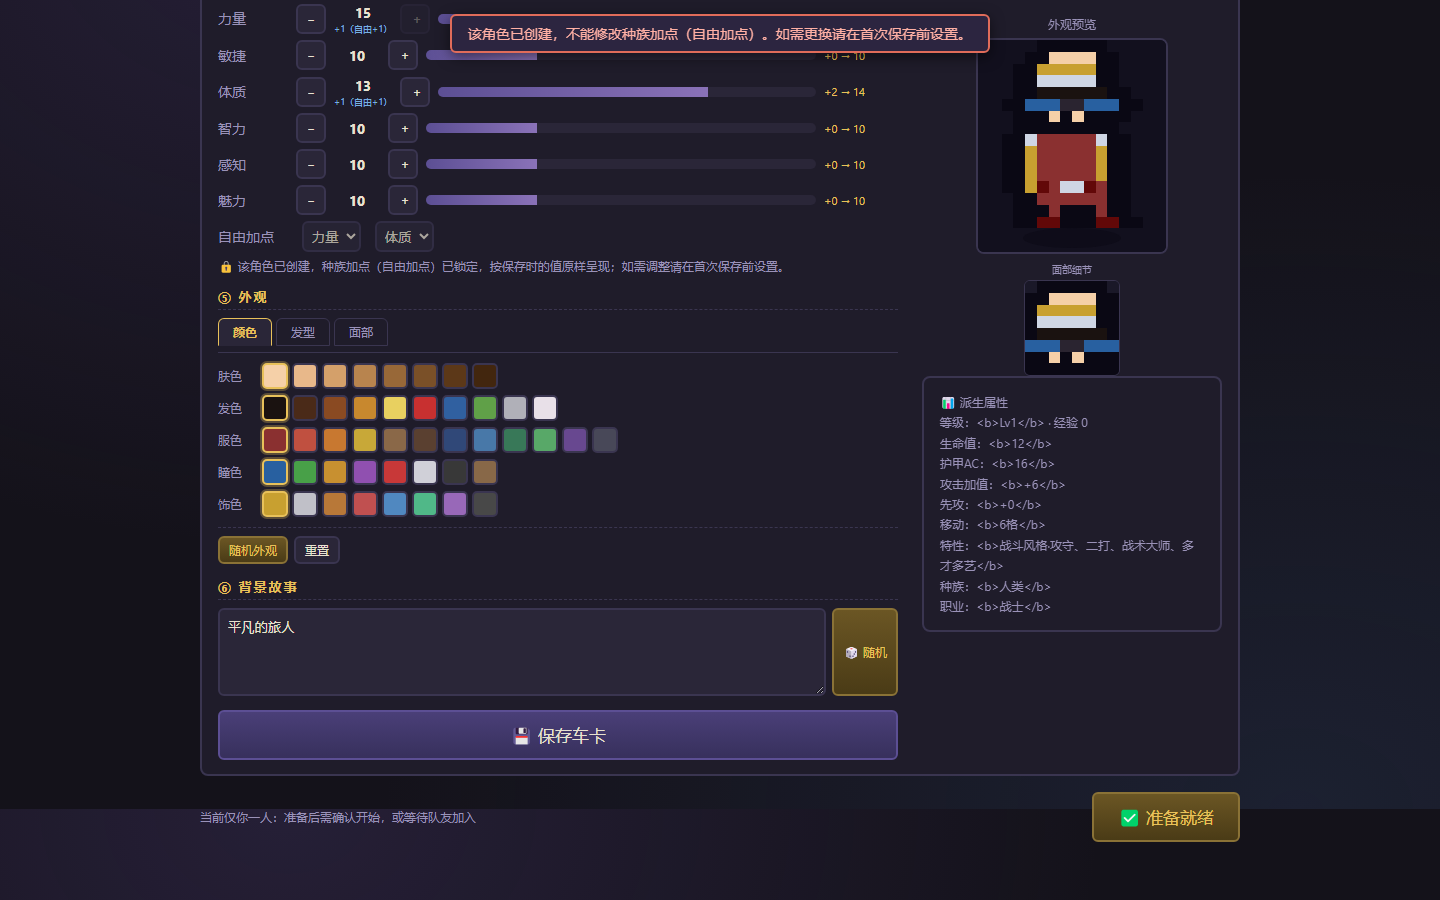
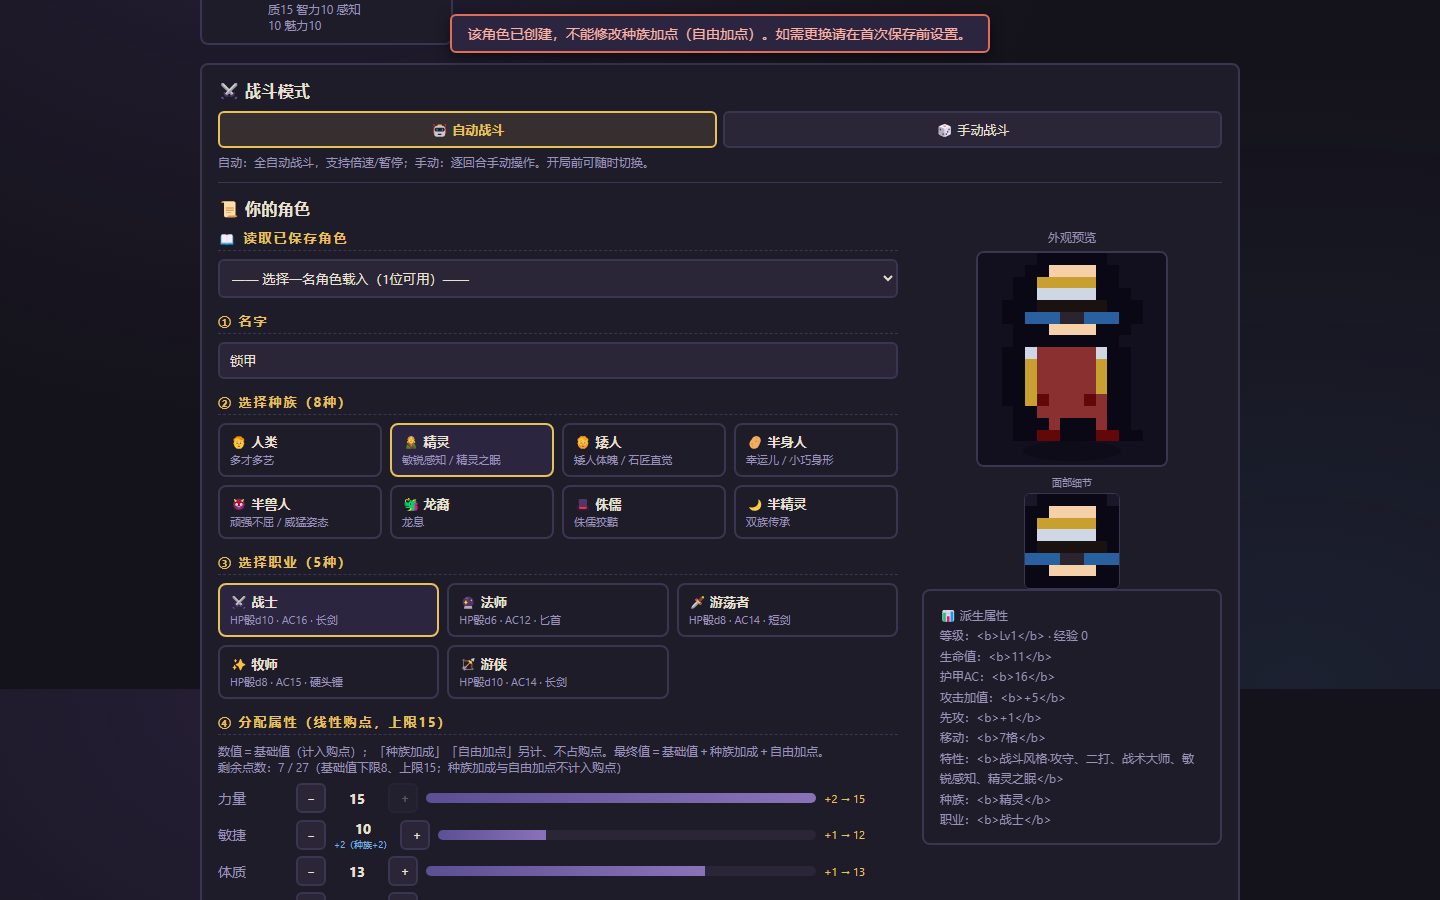
feat(R1-28 补充): 已创建角色的「种族身份」也锁定（用户裁定）
- 复核发现等效绕过路径：保持 flex 不变、只换种族 ⇒ 白拿目标种族的固定加成（如 human→halfelf 得 {CHA:2}）
- 用户 2026-09-20 裁定「种族身份也要锁」
- 服务端 rooms.mjs setSheet：已创建角色改 raceId ⇒ 拒绝并回执「该角色已创建，不能更换种族…」
- 前端 room.mjs：种族卡片加 locked 类（不可点）；新角色不受影响
- style.css: .opt-card.locked
- 只锁 raceId，不锁职业/外观/背景（未越界）；不改种族数值定义；不改购点规则
- 验收：探针 修前 24/28 → 修后 28/28；单测 19/19；全量 npm test 130/130

diff --git a/public/css/style.css b/public/css/style.css
@@ -110,6 +110,8 @@ input, select, textarea { font-family: var(--font); }
 .opt-card { border: 2px solid var(--line); border-radius: 8px; padding: 8px 10px; cursor: pointer; background: var(--panel); transition: all .12s; }
 .opt-card:hover { border-color: var(--blue); }
 .opt-card.sel { border-color: var(--gold); background: #2c2540; }
+.opt-card.locked { opacity: .55; cursor: not-allowed; pointer-events: none; } /* R1-28 补充：已创建角色 ⇒ 种族卡片不可点 */
+.opt-card.locked:hover { border-color: var(--line); }
 .opt-card .oc-name { font-weight: 700; font-size: 13px; }
 .opt-card .oc-sub { color: var(--dim); font-size: 11px; margin-top: 2px; }
 .stat-row { display: flex; align-items: center; gap: 8px; margin-bottom: 6px; }
